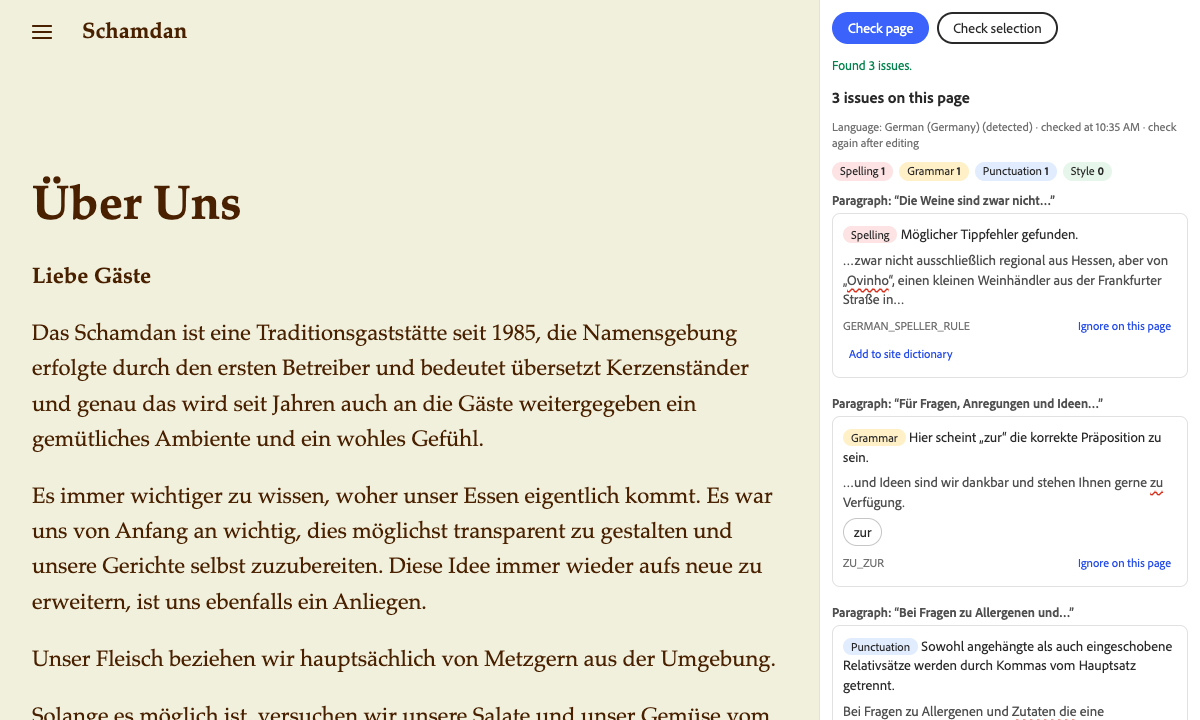
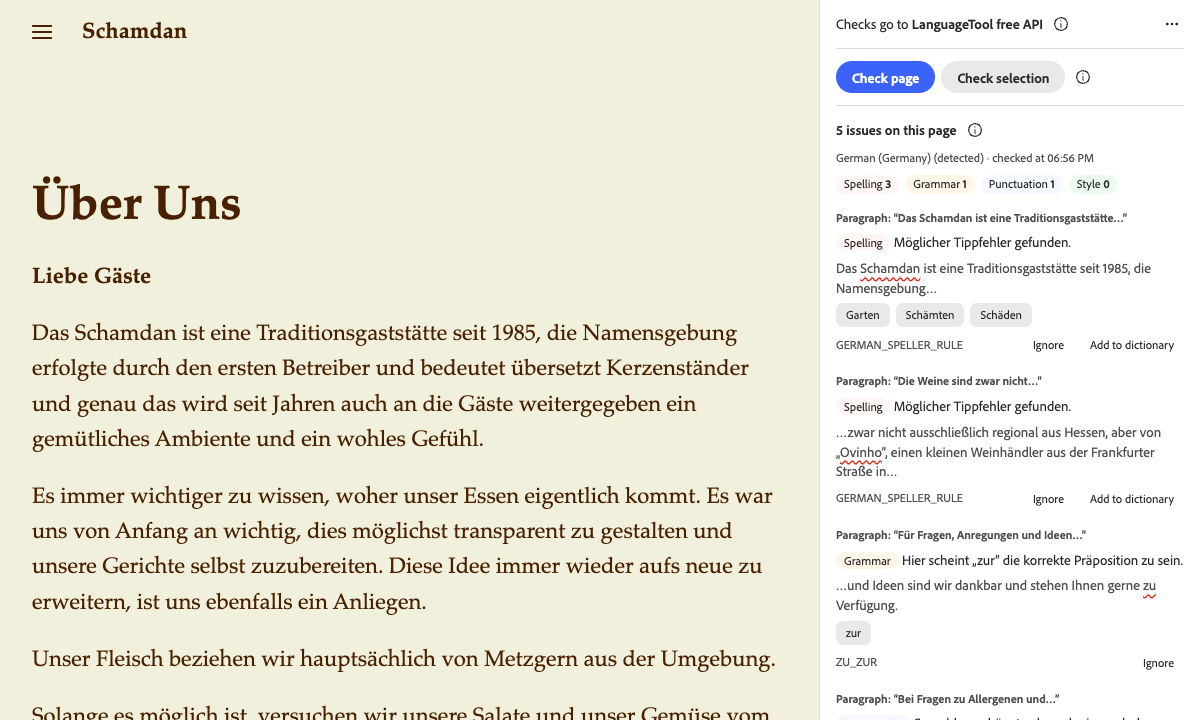
docs: new card image and README for the menu, info buttons and assistant prompt

diff --git a/README.md b/README.md
@@ -2,7 +2,7 @@
 
 A proofreading panel for [AEM Experience Workspace](https://da.live). It checks the page you are editing with [LanguageTool](https://languagetool.org) and helps you fix what it finds: spelling, grammar, punctuation and style, in more than 30 languages.
 
-![The LanguageTool panel next to a German restaurant page, listing a misspelled name, a wrong preposition and a missing comma](marketplace/card.png)
+![The LanguageTool panel next to a German restaurant page. It says checks go to the LanguageTool free API and lists five issues, among them two unknown names and a wrong preposition](marketplace/card.png)
 
 It is for authors who publish in Experience Workspace and want a second pair of eyes before they hit preview, without copying text into another tool.
 
@@ -11,7 +11,9 @@ What you can do in the panel:
 - Check page: lists every issue on the page, grouped by paragraph or block, with the flagged words underlined, LanguageTool's explanation and up to three suggestions. Counts at the top show spelling, grammar, punctuation and style separately.
 - Check selection and fix it: select text in the document, check it, pick the suggestions you want and apply them. The panel replaces only the selected text.
 - Site dictionary: names like your brand or a product LanguageTool doesn't know show up as spelling mistakes. Add them to the site dictionary once and they are ignored for every author on the site. Authors who can't change the site settings can ignore a word for the current page instead.
-- Ask the Workspace assistant: on sites with Workspace chat, one button puts the list of issues into the chat prompt, so the assistant can fix them for you. Nothing is sent until you press send in the chat.
+- Ask the assistant: on sites with Workspace chat, one button puts the issues into the chat prompt as a short list: the flagged words, where they are and the suggested fix. The assistant can then fix them for you. Nothing is sent until you press send in the chat.
+
+The top of the panel says where checks go ("Checks go to LanguageTool free API"). The info button next to it explains what is sent and shows the site settings. The … menu holds the rare actions: adding or removing your premium key, and opening the site settings.
 
 ## Set it up
 
@@ -38,7 +40,7 @@ You need permission to edit the site configuration at `https://da.live/config#/{
 
 3. Open a page in Experience Workspace, choose Panels, then LanguageTool.
 
-The first time you check, the panel tells you where the text goes and asks you to continue.
+The first time you check, the panel tells you where the text goes and asks you to continue. It asks again if the panel is served from a new address or checks go to a different server.
 
 ## Servers
 
@@ -54,7 +56,7 @@ Limits are from LanguageTool's [public API page](https://dev.languagetool.org/pu
 
 Free API. Works without an account. LanguageTool asks that you don't send automated requests to it; the panel only checks when an author clicks a button. LanguageTool's [terms](https://languagetool.org/legal/terms) say the services are for "personal, non-commercial purposes" unless LanguageTool agrees otherwise in writing. If you use this for a business site, get a premium plan or run your own server.
 
-Premium API. Each author enters their own LanguageTool login email and API key under Settings in the panel. Get the key at [languagetool.org/editor/settings/access-tokens](https://languagetool.org/editor/settings/access-tokens) after signing in. API plans are listed at [languagetool.org/proofreading-api](https://languagetool.org/proofreading-api). With `server` set to `free`, a saved key switches that author to premium; with `server` set to `premium`, authors without a key are asked for one.
+Premium API. Each author adds their own LanguageTool login email and API key with Add premium key in the panel's … menu. Get the key at [languagetool.org/editor/settings/access-tokens](https://languagetool.org/editor/settings/access-tokens) after signing in. API plans are listed at [languagetool.org/proofreading-api](https://languagetool.org/proofreading-api). With `server` set to `free`, a saved key switches that author to premium, and the panel then says "Checks go to LanguageTool Premium, with your key"; with `server` set to `premium`, authors without a key are asked for one.
 
 Your own server. LanguageTool is open source ([LGPL 2.1](https://github.com/languagetool-org/languagetool)). Run its HTTP server and set `server` to its URL. The panel calls `{url}/v2/check`. The server must use https (`http://localhost` is allowed for testing) and must allow cross-origin requests: start the server with `--allow-origin` (without a value it allows any origin). There is no official Docker image; [erikvl87/languagetool](https://hub.docker.com/r/erikvl87/languagetool) is a community image.
 
@@ -66,11 +68,11 @@ When you click Check page or Check selection, the panel sends the text of the pa
 
 Nothing is sent while you type, and nothing is sent to anyone else. LanguageTool says it doesn't store texts sent to its API and runs its servers in Germany ([proofreading API page](https://languagetool.org/proofreading-api)).
 
-The premium key is stored in your browser's local storage for the origin the panel is served from. Forget key in Settings removes it. Any code served from that origin can read it, so only use a copy you trust (see [Deploy your own copy](#deploy-your-own-copy)).
+The premium key is stored in your browser's local storage for the origin the panel is served from. Remove premium key in the … menu removes it. Any code served from that origin can read it, so only use a copy you trust (see [Deploy your own copy](#deploy-your-own-copy)).
 
 ## Keyboard and accessibility
 
-All controls are buttons and form fields you can reach with Tab. After a check, focus moves to the result heading and the result count is announced. Each issue lists the flagged words in text, not only as an underline. Issue types are labelled in words, not only by color.
+All controls are buttons and form fields you can reach with Tab. Info buttons and the … menu open with Enter and close with Escape, and focus goes back to the button. After a check, focus moves to the result heading, which says how many issues were found. Each issue lists the flagged words in text, not only as an underline. Issue types are labelled in words, not only by color.
 
 ## Known limits
 
@@ -80,7 +82,7 @@ All controls are buttons and form fields you can reach with Tab. After a check, 
 - Page metadata is not checked: Experience Workspace doesn't pass it to extensions.
 - Issues don't become Workspace comments. Extensions can't create comments today.
 - Results are a snapshot. After editing, check again.
-- Premium results for German were unstable when tested on 2026-11-11: the same text sometimes came back with no issues at all, even obvious typos, while the free API found them. English premium results were stable. If a German page shows 0 issues with a premium key, use Forget key and check again on the free API.
+- Premium results for German were unstable when tested on 2026-11-11: the same text sometimes came back with no issues at all, even obvious typos, while the free API found them. English premium results were stable. If a German page shows no issues with a premium key, remove the key in the … menu and check again on the free API.
 
 ## Troubleshooting
 
@@ -91,8 +93,8 @@ All controls are buttons and form fields you can reach with Tab. After a check, 
 | "Could not reach ..." | Your network blocks the server, or a self-hosted server doesn't send CORS headers for the panel's origin. Open the browser console for details. |
 | "Select some text in the document first" | Select text in the editor before Check selection. |
 | "The selection changed since the check" | You changed the selection after checking. Check it again, then apply. |
-| "LanguageTool did not accept the premium key" (HTTP 401/403) | Check the email and API key in Settings. |
-| Add to site dictionary is missing | You can't edit the site configuration. Use Ignore on this page, or ask someone who can to add the word. |
+| "LanguageTool did not accept your premium key" (HTTP 401/403) | Remove the key in the … menu and add it again with the right email and API key. |
+| Add to dictionary is missing | You can't edit the site configuration. Use Ignore, or ask someone who can to add the word. |
 
 ## Develop locally
 

diff --git a/docs/demo-script.md b/docs/demo-script.md
@@ -23,7 +23,7 @@ Click Check page.
 
 ## 1:00 Site dictionary (30 seconds)
 
-Click Add to site dictionary under "Schamdan". The count drops from 5 to 3, and the capitalized "SCHAMDAN" disappears too. Do the same for "Ovinho".
+Click Add to dictionary under "Schamdan". The count drops from 5 to 3, and the capitalized "SCHAMDAN" disappears too. Do the same for "Ovinho".
 
 "The words are saved in the site settings, so every author on this site gets them. Authors who can't change the settings can ignore a word for the page instead."
 
@@ -31,8 +31,8 @@ Click Add to site dictionary under "Schamdan". The count drops from 5 to 3, and 
 
 In the editor, select "stehen Ihnen gerne zu Verfügung". Click Check selection.
 
-- One issue: "zu" should be "zur". Click the "zur" suggestion; the corrected text shows above the Apply button.
-- Click Apply 1 fix to the selection. The editor text changes in place, with undo available.
+- One issue: "zu" should be "zur". Click the "zur" suggestion; the corrected text shows with an Apply button above the list.
+- Click Apply 1 fix. The editor text changes in place, with undo available.
 
 Then select the three paragraphs from "Dies vermeidet" to "Servicepersonal.", check, pick "Zutaten, die", apply. The comma appears and the paragraphs stay as they were.
 
@@ -40,13 +40,13 @@ Then select the three paragraphs from "Dies vermeidet" to "Servicepersonal.", ch
 
 ## 2:20 Settings and servers (25 seconds)
 
-Open Settings.
+Point at "Checks go to LanguageTool free API" and open its info button.
 
-- The site uses the free LanguageTool API: no account, about 20 checks a minute.
-- Each author can add their own premium key here. It stays in their browser and is never written to the site settings.
+- The site uses the free LanguageTool API: no account, about 20 checks a minute. The info shows what is sent and the site settings.
+- Open the … menu: each author can add their own premium key there. It stays in their browser and is never written to the site settings.
 - A site can also point to its own LanguageTool server, so text never leaves the company.
 
-If a premium key is set up, check the page again and point at issues marked "(premium)". Try this right before the demo: on 2026-11-11 the premium API returned no issues for this German page on most calls. If it still does, skip this step and leave the key out of the demo browser.
+If a premium key is set up, the top line says "Checks go to LanguageTool Premium, with your key". Check the page again and point at issues marked "(premium)". Try this right before the demo: on 2026-11-11 the premium API returned no issues for this German page on most calls. If it still does, skip this step and leave the key out of the demo browser.
 
 ## 2:45 Wrap-up (15 seconds)
 
